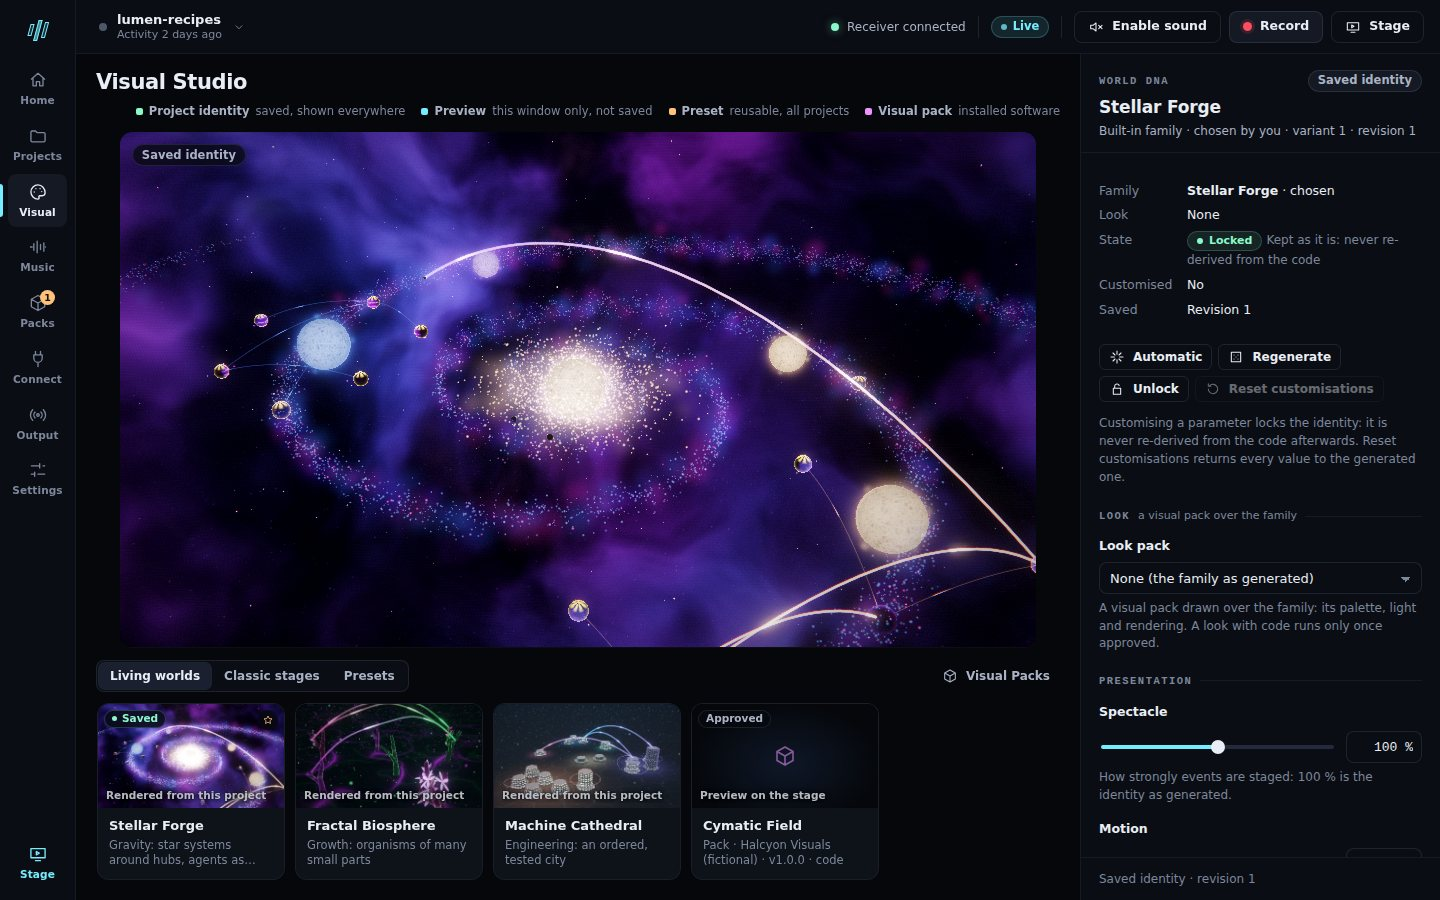
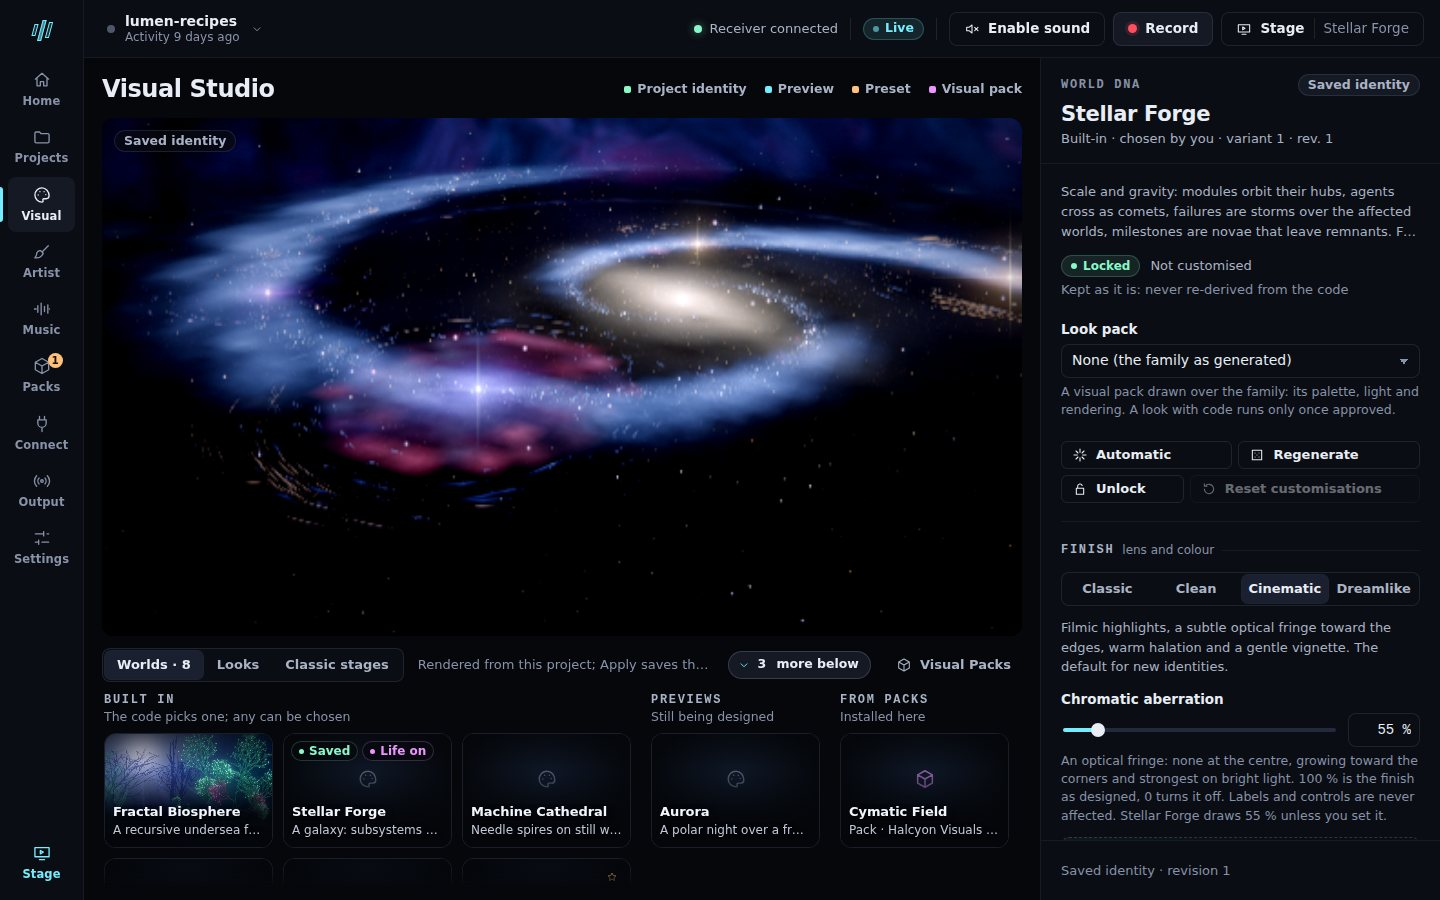
0.9.2: version, changelog heading, refreshed screenshots, and the docs that name the version
Product and VS Code extension 0.9.2, with no code changes: package.json, extension/package.json and both lock files, the two tests that pin the version, CHANGELOG "Unreleased" becoming 0.9.2 with a header (every world in view in the Visual Studio, a first run that starts with the stage, Record & Broadcast's choices together, and the UX pass's layout, contrast, focus and message fixes; interpretation 11, generator 5 and SDK 1.3 unchanged), and the docs that name the version or the VSIX (PUBLISHING: 3.22 MB, 214 files). The screenshots of Home, the first run, the Visual Studio and Record & Broadcast are regenerated: docs/control-center with software rendering, docs/desktop/after on the AMD integrated GPU, as their READMEs say; the other screens are unchanged.

diff --git a/tests/extension-settings.test.js b/tests/extension-settings.test.js
@@ -67,7 +67,7 @@ test('workspace.started reports the extension version, remote and every capture 
   const started=x.sent.find(e=>e.kind==='workspace.started');assert(started,x.kinds().join(','));
   assert.deepEqual(started.meta,{extensionVersion:VERSION,remote:'wsl',includeHidden:true,captureDocumentContents:true,captureTerminalCommands:true,
     capturePromptText:false,shareProjectName:true,baselineFileLimit:120,receiverPort:4199});
-  assert.equal(VERSION,'0.9.1');assert.equal(started.name,'my-secret-folder');
+  assert.equal(VERSION,'0.9.2');assert.equal(started.name,'my-secret-folder');
   assert.equal(x.outboxes[0].port,4199,'the reported port is the one the capture delivers to');
   assert.deepEqual(x.ensured,[{port:4199,dir:path.join(dir,'data'),start:true}],'starting capture looks for (or starts) a receiver on that port, in the data directory');
   assert.equal(x.outboxes[0].authFile,path.join(dir,'data','receiver-auth.json'),'the outbox reads the token of that data directory');

diff --git a/tests/highlight.test.js b/tests/highlight.test.js
@@ -239,7 +239,7 @@ test('film wrapper pins nvidia, auto, and a bare --gpu; /dev/dri alone is not a 
 test('Home play does not require Playwright; product stays dependency-free; film script is wired',()=>{
   const root=path.join(__dirname,'..');
   const pkg=JSON.parse(fs.readFileSync(path.join(root,'package.json'),'utf8'));
-  assert.equal(pkg.version,'0.9.1');
+  assert.equal(pkg.version,'0.9.2');
   assert.equal(pkg.scripts.film,'node scripts/film.js');
   assert.equal(pkg.dependencies,undefined);
   const app=fs.readFileSync(path.join(root,'public/app.js'),'utf8');

diff --git a/docs/FIRST-RUN.md b/docs/FIRST-RUN.md
@@ -69,7 +69,7 @@ That one command, on loopback only:
    already there. If any other program holds the port, it **refuses**: it does not write a token, mint a pairing link, or
    open a browser. Free the port and run it again. `RESONANCE_DATA` / `--data` and `RESONANCE_PORT` / `--port` change the
    directory and port.
-3. Builds `code-resonance-0.9.1.vsix` (Node only) and, when the `code` command works, installs it unless you pass
+3. Builds `code-resonance-0.9.2.vsix` (Node only) and, when the `code` command works, installs it unless you pass
    `--no-install`. If the install does not succeed, it says so; install the file from VS Code (step 1 below).
 4. Prints a **pairing link** (`http://127.0.0.1:4174/#pair=…`, single use, 15 minutes) and tries to open it unless you
    pass `--no-open`. Inside WSL it also prints a `localhost` link *From Windows (WSL)*: open that one in your Windows
@@ -82,7 +82,7 @@ Leave that terminal open: `Ctrl+C` stops a receiver this command started. A rece
 Then, in the VS Code window of the project you want to watch:
 
 1. **The extension.** *Extensions* should list **Code Resonance** (under *WSL* for a WSL window). If it is missing,
-   use *Extensions › … › Install from VSIX* and pick `code-resonance-0.9.1.vsix` from the Code Resonance folder. If the
+   use *Extensions › … › Install from VSIX* and pick `code-resonance-0.9.2.vsix` from the Code Resonance folder. If the
    status bar shows no **CR** item, run **Developer: Reload Window**.
 2. **Capture.** The item reads **CR stopped** until you start: click it, choose **Start Code Performance** (also in the
    Command Palette as **CODE RESONANCE: Start Code Performance**) and accept local capture. The workspace must be
@@ -164,7 +164,7 @@ for Code Resonance. In a second terminal:
 
 ```bash
 npm run package:vsix
-code --install-extension code-resonance-0.9.1.vsix
+code --install-extension code-resonance-0.9.2.vsix
 ```
 
 Open a trusted workspace, click **CR** and accept local capture. With no project yet, `npm run demo` in a second
@@ -319,7 +319,7 @@ Broadcast › OBS as a Browser Source: the OBS view shows what is applied, never
 | *Code Resonance could not start its receiver* | the receiver stopped while starting | **Show Log** (`~/.code-resonance/logs/receiver.log`) and the **Code Resonance** Output channel say why |
 | `npm run up` refuses the port | another program (not Code Resonance) is on 4174 | free `RESONANCE_PORT` (default 4174) and run it again |
 | `npm run up` refuses leftover on the port | a Code Resonance receiver answers, but `--data` has no `receiver-auth.json` (another data directory, or a leftover process) | pass the matching `--data` / `RESONANCE_DATA`, or free the port |
-| `npm run up` says *code --install-extension did not succeed*, after *Unable to connect to VS Code server … ENOENT … vscode-ipc-….sock* | the terminal was restored from an earlier VS Code session and points at a VS Code connection that no longer exists | open a new terminal (**+** in the terminal panel) and run it again, or in VS Code use *Extensions › … › Install from VSIX* with `code-resonance-0.9.1.vsix` from the Code Resonance folder |
+| `npm run up` says *code --install-extension did not succeed*, after *Unable to connect to VS Code server … ENOENT … vscode-ipc-….sock* | the terminal was restored from an earlier VS Code session and points at a VS Code connection that no longer exists | open a new terminal (**+** in the terminal panel) and run it again, or in VS Code use *Extensions › … › Install from VSIX* with `code-resonance-0.9.2.vsix` from the Code Resonance folder |
 | `npm run up` says *VS Code CLI (code) is not on PATH* | it ran outside VS Code's terminal, or VS Code's `code` command is not installed | *Extensions › … › Install from VSIX* in VS Code, or run it from VS Code's integrated terminal |
 | No **CR** item in the status bar | the window was already open when the extension was installed, or the extension is installed on the other side (Windows instead of WSL) | **Developer: Reload Window**; *Extensions* should list Code Resonance under *WSL* for a WSL window |
 | No project appears | capture not started, or the extension cannot reach the receiver | CR status-bar item → Start; `npm run doctor` shows the port the receiver uses; the extension's port setting is `resonance.receiverPort` |

diff --git a/README.md b/README.md
@@ -189,7 +189,7 @@ installed extension uses this receiver and never starts or replaces one while it
    `localhost` link printed under *From Windows (WSL)*. A link works once, within 15 minutes, and `npm run pair`
    prints a new one. A browser that is not paired can still watch, play and record, but changes nothing.
 3. **Load the extension in your project's window.** If `npm run up` could not install it, use *Extensions › … › Install
-   from VSIX* there and pick `code-resonance-0.9.1.vsix` from this folder. If **CR** does not appear in the status bar,
+   from VSIX* there and pick `code-resonance-0.9.2.vsix` from this folder. If **CR** does not appear in the status bar,
    run **Developer: Reload Window**.
 4. **Start capture.** Click **CR stopped** in the status bar, choose **Start Code Performance** and accept local
    capture. The workspace must be trusted. Within seconds the project appears by name, with its files, in the
@@ -219,7 +219,7 @@ symptoms and fixes, including what to do when the picture looks grainy.
 ## The VS Code extension
 
 ```bash
-npm run package:vsix          # writes code-resonance-0.9.1.vsix, with Node only (Windows, Linux, macOS)
+npm run package:vsix          # writes code-resonance-0.9.2.vsix, with Node only (Windows, Linux, macOS)
 ```
 
 The VSIX (about 3 MB) holds the extension and the receiver it starts when none answers: the receiver, engine, player,
@@ -228,10 +228,10 @@ Publishing it to the Marketplace and Open VSX: [docs/PUBLISHING.md](docs/PUBLISH
 
 Or download it from the [latest release](https://github.com/Nimdy/code-resonance/releases/latest), with its SHA-256
 in `SHA256SUMS.txt`: the packager writes fixed timestamps, so a build of the release's tag with the same Node version
-is the same file. Install the VSIX yourself, with `code --install-extension code-resonance-0.9.1.vsix`
+is the same file. Install the VSIX yourself, with `code --install-extension code-resonance-0.9.2.vsix`
 or *Extensions › … › Install from VSIX*. To try it without touching your everyday VS Code, give that instance its own
 folders, as the qualification does: `code --user-data-dir <dir> --extensions-dir <dir>/extensions
---install-extension code-resonance-0.9.1.vsix`, then open your project with the same two options.
+--install-extension code-resonance-0.9.2.vsix`, then open your project with the same two options.
 
 Open a trusted workspace, click the **CR** status-bar item (or run **CODE RESONANCE: Start Code Performance**) and
 accept local capture. The status-bar menu also stops capture, opens the Stage or the OBS view, shows the receiver's
@@ -345,7 +345,7 @@ full list, with data locations, backup, updates and rollback: [docs/OPERATIONS.m
 
 ## Versions
 
-0.9.1 is the product version. Interpretation 11 (a subagent names its parent; 10 brought adapters for nine more languages and deeper Python) is independent of it. The last published
+0.9.2 is the product version. Interpretation 11 (a subagent names its parent; 10 brought adapters for nine more languages and deeper Python) is independent of it. The last published
 GitHub Release before the 0.7 series was 0.6.0 (`v0.6.0`). The score (2 or 3), the Visual Recipe generator (5), digital life's ecology (1 or 2), the
 Visual Pack SDK (1.3) and the data formats have versions of their own, which keep older identities as they were:
 [ARCHITECTURE.md › Versions and compatibility](ARCHITECTURE.md#versions-and-compatibility).

diff --git a/ARCHITECTURE.md b/ARCHITECTURE.md
@@ -139,7 +139,7 @@ made with, and older versions stay in the code.
 
 | What | Current | Defined in | Rule |
 |---|---|---|---|
-| Product | 0.9.1 | `package.json`, `extension/package.json` | Not bumped for format, score or generator changes. Last published GitHub Release before 0.7: `v0.6.0` |
+| Product | 0.9.2 | `package.json`, `extension/package.json` | Not bumped for format, score or generator changes. Last published GitHub Release before 0.7: `v0.6.0` |
 | Interpretation | 11 | `engine/reducer.js` `INTERPRETATION_VERSION` | Independent of the product version. A change rebuilds each project's derived files (`performance.jsonl`, `state.json`, `public.json`) from its journal, which is never rewritten. Event kinds are only ever added. v8 assigns CAST seats from the provider catalog and emits `agent.collision` when two providers share a file or district inside 60 s; v9 counts only catalogued providers for it and gives its cue weight 0, so it adds no progress (`tests/reducer.test.js` pins that two agents keep one agent's progress and chapter); v10 adds language adapters for Go, Rust, Java, Kotlin, C#, Swift, C/C++, PHP and Ruby, deeper Python, packages declared by go.mod, Cargo.toml and composer.json, and each language's test-file convention, while every JS/TS file keeps its v9 structure and test flag (`tests/languages-*.test.js`); v11 names a subagent's parent: once a subagent event ties a subagent to an agent already observed in its own session (every adapter keys a subagent `<session>/<its id, type or task>`), its `agent.state` intents carry `subject.parentAgentId`, that agent's public id, and nothing else changes (`tests/agent-parents.test.js`) |
 | Score | 2 (classic, frozen) and 3 (composed) | `public/score.js`; chosen per identity by `genome.music.score` | A recipe without `music.score` plays 2. v2's output is pinned by digest (`tests/score-v3.test.js`). A change that alters what an existing identity plays is a new score version, never an edit of an old one |
 | Visual Recipe | schema `code-resonance.recipe.v1`, generator 5 | `engine/recipe.js` `RECIPE_SCHEMA`, `RECIPE_VERSION` | A stored recipe keeps its values. Each generator adds values from its own random stream (or none), so earlier values are unchanged (`tests/recipe.test.js` pins them); an identity saved before 4 is redrawn with 3 and gains 4's values only through a deliberate tune, one saved by 4 is redrawn with 4. v5 lets the family scores choose Synaptic Storm, Fractal Continuum and Temporal Terrain (each scored from its own stream after the flagships' unchanged draws), gives their new identities digital life and adds the trait `grown`; v4's families, draws and values are unchanged (`tests/generator-v5.test.js` checks them against the generator before it) |

diff --git a/docs/README.md b/docs/README.md
@@ -53,7 +53,7 @@ SDK pages. It shows them as text without images, and a link to a document it doe
 
 ## Versions
 
-The product version (0.9.1) is not the version of the interpretation (11), the score, the Visual Recipe
+The product version (0.9.2) is not the version of the interpretation (11), the score, the Visual Recipe
 generator, digital life, the Visual Pack SDK or the composition format. Each is listed, with the rule that keeps older
 identities as they were: [ARCHITECTURE.md › Versions and compatibility](../ARCHITECTURE.md#versions-and-compatibility).
 The last published GitHub Release before the 0.7 series is 0.6.0 (`v0.6.0`).
@@ -71,8 +71,10 @@ disk and a third preview world, Temporal Terrain. 0.8.1 graduates the three prev
 choose them, and each is inhabited by digital life of its own. 0.9.0 finishes them: agents travel each
 world's own paths, the music reaches Fractal Continuum and Temporal Terrain, Temporal Terrain flies over its history
 when idle and Synaptic Storm's subagents are tethered to their parent (interpretation 11); it adds Visual Pack SDK 1.3
-and a new preview world, Aurora. 0.9.1 (this tree) gives Aurora its digital life and reworks the graduated worlds'
-curated looks ([CHANGELOG](../CHANGELOG.md)). The interpretation is independent of the product version.
+and a new preview world, Aurora. 0.9.1 gives Aurora its digital life and reworks the graduated worlds' curated looks.
+0.9.2 (this tree) polishes the Control Center: every world in view in the Visual Studio, a first run that starts with
+the stage, Record & Broadcast's choices together, and laptop layouts, contrast and focus fixed
+([CHANGELOG](../CHANGELOG.md)). The interpretation is independent of the product version.
 
 | PR | Milestone | Qualification | Changelog | Evidence in the repository |
 |---|---|---|---|---|

diff --git a/CHANGELOG.md b/CHANGELOG.md
@@ -1,6 +1,15 @@
 # Changelog
 
-## Unreleased
+## 0.9.2 — 2026-11-01
+
+Product 0.9.2, for use on your own machine; not stable. This tag is `v0.9.2`. A **Control Center** release: the
+Visual Studio shows **every world** at once, grouped, instead of a strip that scrolled sideways; a **first run** starts
+with the stage (and the demo, when it is there) beside a short setup checklist; **Record & Broadcast** keeps Record,
+the recording profile and where the file goes together. Laptop layouts, text contrast, keyboard focus and loading and
+offline messages are fixed across every workspace. Both rounds were reviewed on before/after screenshots and merged by
+the owner. Interpretation is still 11, generator 5, Visual Pack SDK 1.3: no derived file is rebuilt and no existing
+identity changes. The VS Code extension is 0.9.2 (`code-resonance-0.9.2.vsix`); it is not published to the
+Marketplace or Open VSX yet ([docs/PUBLISHING.md](docs/PUBLISHING.md)).
 
 - **Control Center UX pass** (every workspace screenshotted at 1920 × 1080, 1366 × 768, 1280 × 800 and 1024 × 700, on a
   fresh install, with projects, unpaired, with the receiver stopped and while loading; contrast, focus and accessible
@@ -36,6 +45,8 @@
     holds the explanations, beside *Performance and limits*. The last recording, the way to OBS and the exports fill the
     right column.
 - The vertical format names Reels and Shorts only.
+- The documentation's screenshots of Home, the first run, the Visual Studio and Record & Broadcast show the new layouts
+  (`docs/control-center/`, software rendering; `docs/desktop/after/`, the AMD integrated GPU).
 
 ## 0.9.1 — 2026-11-01
 

diff --git a/docs/OPERATIONS.md b/docs/OPERATIONS.md
@@ -5,7 +5,7 @@ receiver prints, and what has and has not been verified. Setting it up for the f
 
 ## Status
 
-Product version **0.9.1**. The last published GitHub Release before the 0.7 series is **0.6.0** (`v0.6.0`). For private use on your own machine; it
+Product version **0.9.2**. The last published GitHub Release before the 0.7 series is **0.6.0** (`v0.6.0`). For private use on your own machine; it
 is not stable. It runs from this repository, or from the VS Code extension alone: the VSIX carries the receiver and the
 extension starts it when none is running ([Getting started](FIRST-RUN.md#with-the-extension-alone)). Publishing to the
 Visual Studio Marketplace and Open VSX is prepared, not done ([PUBLISHING.md](PUBLISHING.md)). The product version is separate from the versions of

diff --git a/docs/PUBLISHING.md b/docs/PUBLISHING.md
@@ -8,7 +8,7 @@ prepare it.
 
 - **The package.** `npm run package:vsix` writes `code-resonance-<version>.vsix` with Node alone
   ([scripts/package-vsix.js](../scripts/package-vsix.js)): the extension and, under `extension/runtime/`, the receiver
-  it starts when none is running (3.21 MB, 214 files at 0.9.1). One package for every platform: the receiver is
+  it starts when none is running (3.22 MB, 214 files at 0.9.2). One package for every platform: the receiver is
   plain JavaScript run by VS Code's own runtime, so no `--target` builds are needed. It does not run in VS Code for the
   Web (no `browser` entry; capture needs a local extension host).
 - **The manifest** ([extension/package.json](../extension/package.json)): publisher `zerobandwidth`, name
